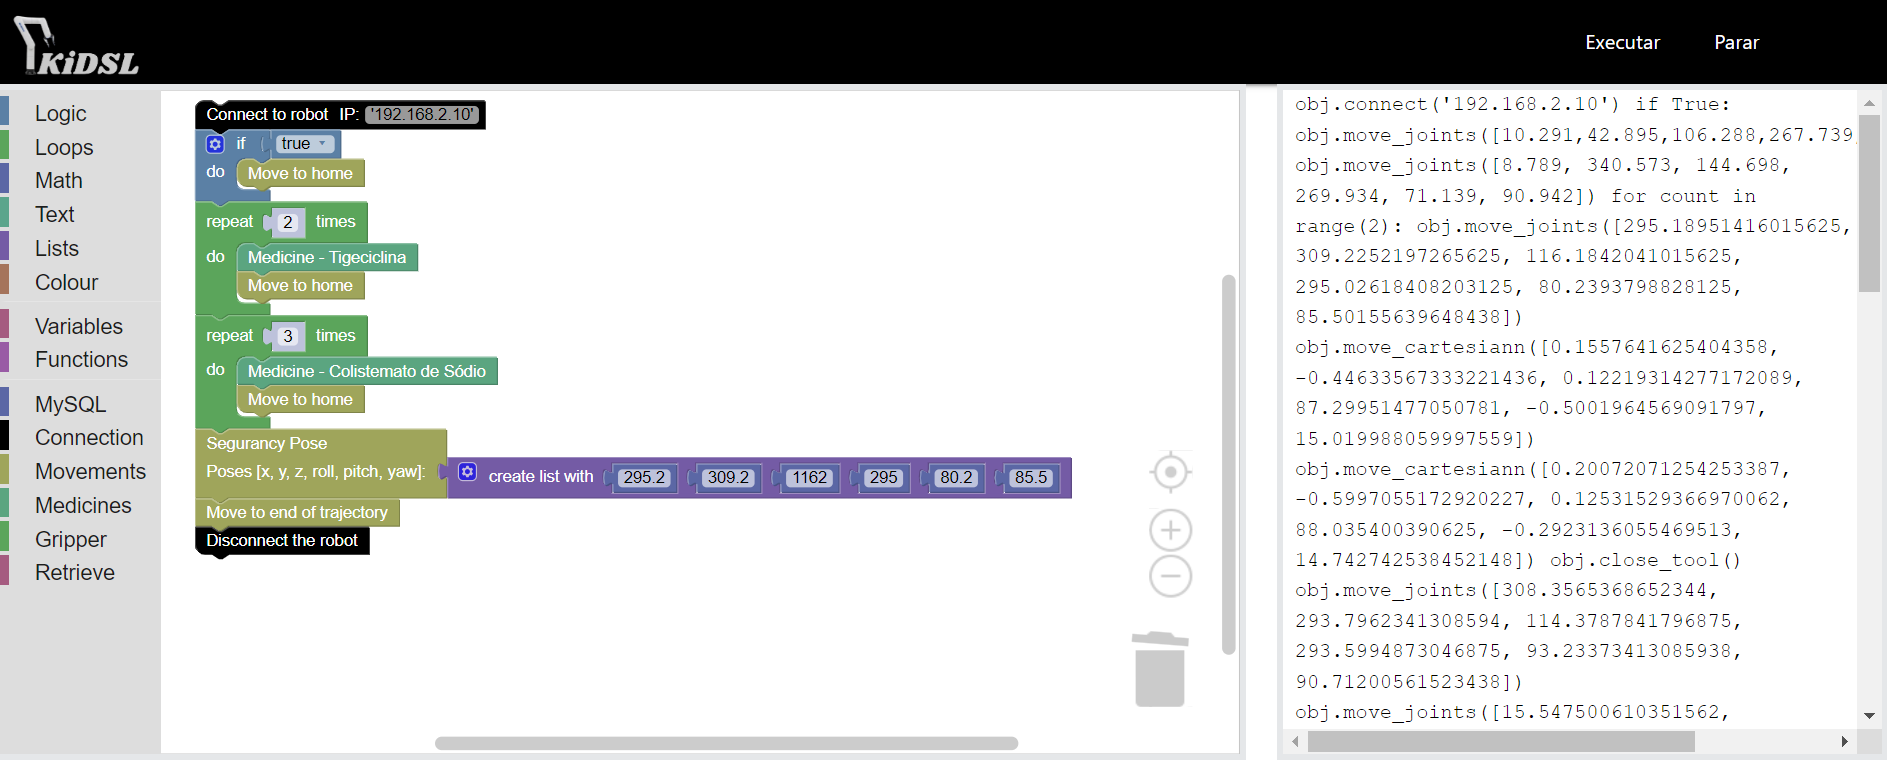
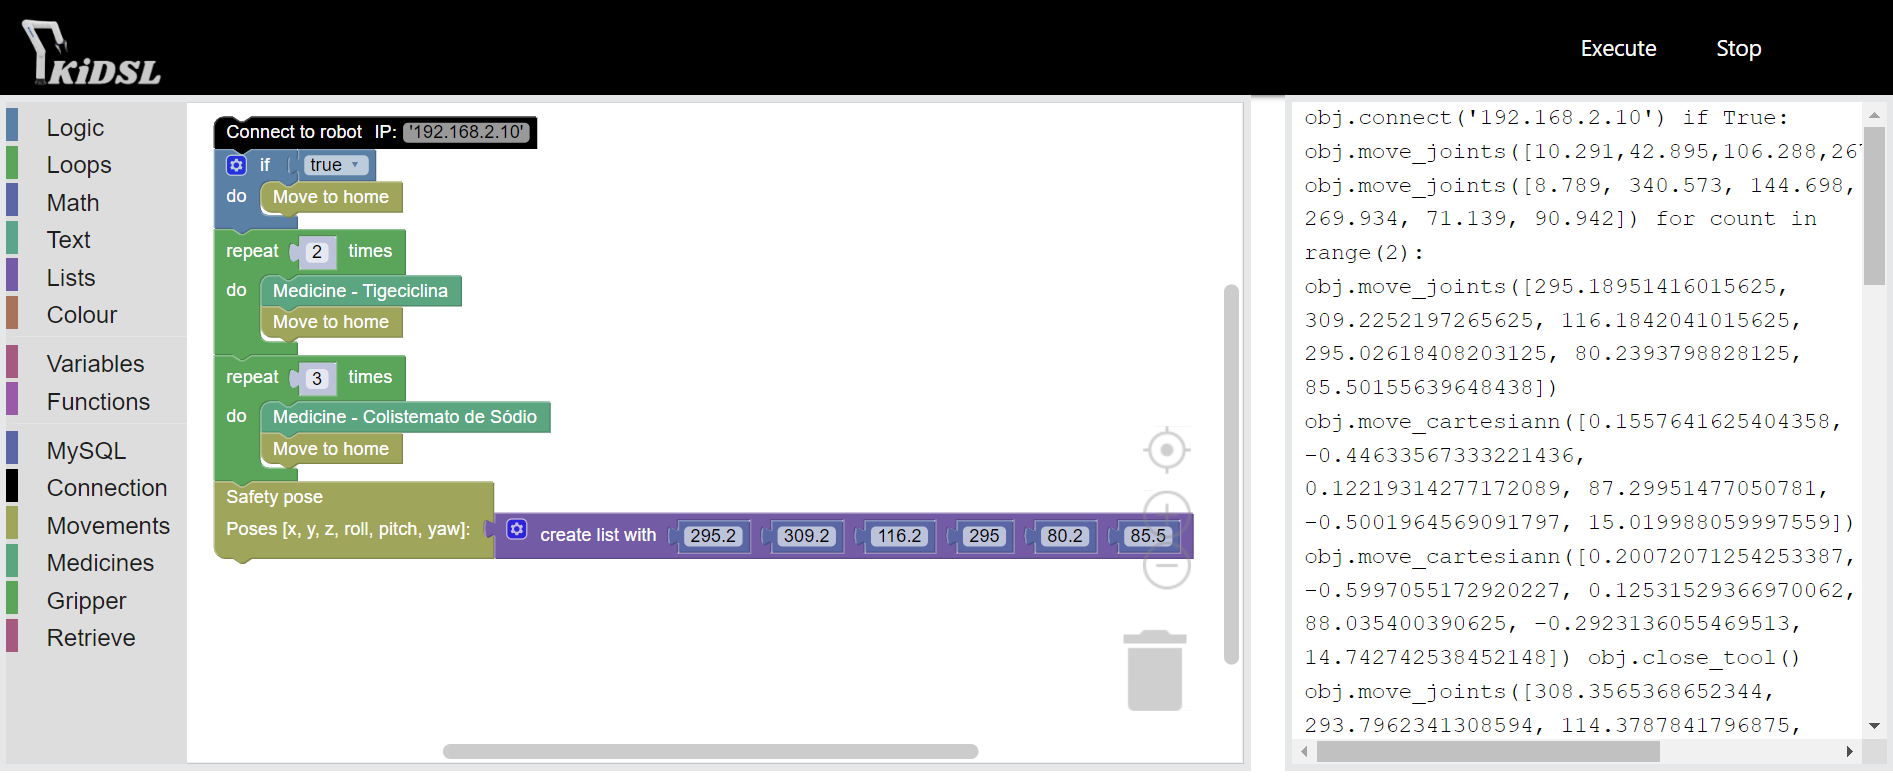
Ajustes no banco de dados e blocos frontend

Changed region(s): [[0.0, 0.0, 1.0, 1.0], [0.584, 0.8107, 0.6455, 0.9308], [0.9836, 0.3603, 1.0, 0.3903]]

diff --git a/static/src/blocos_up.js b/static/src/blocos_up.js
@@ -1,7 +1,7 @@
 Blockly.Blocks['execute_python_script'] = {
   init: function() {
     this.appendDummyInput()
-        .appendField("Execute Python script");
+        .appendField("Execute python script");
     this.appendValueInput("PATH FILE")
         .setCheck("String")        
     this.setPreviousStatement(true, null);
@@ -54,7 +54,7 @@ Blockly.Blocks.moveJoints = {
     this.setPreviousStatement(true, null);
     this.setNextStatement(true, null);
     this.appendDummyInput()
-        .appendField("Move Joints");
+        .appendField("Move joints");
     this.appendValueInput("joints_list")
         .setCheck("Array")
         .appendField("Joints:");      
@@ -70,7 +70,7 @@ Blockly.Blocks.moveCartesian = {
       this.setNextStatement(true, null);
       this.setColour(230);
       this.appendDummyInput()
-          .appendField("Move to Cartesian");
+          .appendField("Move to cartesian");
       this.appendValueInput("pose_list")
           .setCheck("Array")
           .appendField("Poses [x, y, z, roll, pitch, yaw]:");
@@ -97,7 +97,7 @@ Blockly.Blocks.open_tool = {
 Blockly.Blocks.close_tool = {
   init: function() {
     this.appendDummyInput()
-        .appendField("close tool");
+        .appendField("Close tool");
     this.setPreviousStatement(true, null);
     this.setNextStatement(true, null);
     this.setColour(120);
@@ -111,7 +111,7 @@ Blockly.Blocks['retrieve_tickets'] = {
   init: function() {
     this.appendValueInput("retrieve_tickets")
         .setCheck(null)
-        .appendField("retrieve tickets ID");
+        .appendField("Retrieve tickets ID");
     this.setPreviousStatement(true, null);
     this.setNextStatement(true, null);
     this.setColour(330);
@@ -124,7 +124,7 @@ Blockly.Blocks['retrieve_items'] = {
   init: function() {
     this.appendValueInput("NAME")
         .setCheck(null)
-        .appendField("retrieve items");
+        .appendField("Retrieve items");
     this.setPreviousStatement(true, null);
     this.setNextStatement(true, null);
     this.setColour(330);
@@ -181,7 +181,7 @@ Blockly.Blocks.mysqlConnection = {
 Blockly.Blocks.gerarTickets = {
   init: function() {
     this.appendDummyInput()
-        .appendField("Generate Tickets");
+        .appendField("Generate tickets");
     this.setPreviousStatement(true, null);
     this.setNextStatement(true, null);
     this.setColour(230);
@@ -226,20 +226,21 @@ Blockly.Blocks.colistemato = {
   }
 };
 
-Blockly.Blocks.segurancy = {
+Blockly.Blocks.safety = {
   init: function () {
     this.setPreviousStatement(true, null);
     this.setNextStatement(true, null);
     this.setColour(65);
     this.appendDummyInput()
-        .appendField("Segurancy Pose");
-    this.appendValueInput("pose_list")
+        .appendField("Safety pose");
+        this.appendValueInput("joints_list")
         .setCheck("Array")
-        .appendField("Poses [x, y, z, roll, pitch, yaw]:");
-    this.setTooltip("Configure the robot movement with Cartesian coordinates.");
+        .appendField("Joints:");      
+    this.setTooltip("Configure robot movement with joint values.");
     this.setHelpUrl("");
 }
 };
+
 
 Blockly.Blocks['move_to_end'] = {
   init: function() {
@@ -369,11 +370,12 @@ Blockly.Python['colistemato de sodio'] = function(block) {
   return code;
 };
 
-Blockly.Python['segurancy'] = function(block) {
-  var value_pose_list = Blockly.Python.valueToCode(block, 'pose_list', Blockly.Python.ORDER_ATOMIC);
-  var code = 'obj.move_cartesiann(' + value_pose_list + ')\n';
+Blockly.Python['safety'] = function(block) {
+  var value_joints_list = Blockly.Python.valueToCode(block, 'joints_list', Blockly.Python.ORDER_ATOMIC);
+  var code = 'obj.move_joints(' + value_joints_list + ')\n';
   return code;
 };
+
 
 Blockly.Python['move_to_end'] = function(block) {
   var code = 'obj.move_joints([10.291,42.895,106.288,267.739,332.335,92.869])\n';

diff --git a/static/src/tudo.js b/static/src/tudo.js
@@ -1,7 +1,7 @@
 Blockly.Blocks['execute_python_script'] = {
   init: function() {
     this.appendDummyInput()
-        .appendField("Execute Python script");
+        .appendField("Execute python script");
     this.appendValueInput("PATH FILE")
         .setCheck("String")      
     this.setPreviousStatement(true, null);
@@ -83,7 +83,7 @@ Blockly.Python['move_to_home'] = function(block) {
       this.setNextStatement(true, null);
       this.setColour(65);
       this.appendDummyInput()
-          .appendField("Move Joints");
+          .appendField("Move joints");
       this.appendValueInput("joints_list")
           .setCheck("Array")
           .appendField("Joints:");      
@@ -105,7 +105,7 @@ Blockly.Python['moveJoints'] = function(block) {
         this.setNextStatement(true, null);
         this.setColour(65);
         this.appendDummyInput()
-            .appendField("Move to Cartesian");
+            .appendField("Move to cartesian");
         this.appendValueInput("pose_list")
             .setCheck("Array")
             .appendField("Poses [x, y, z, roll, pitch, yaw]:");
@@ -147,7 +147,7 @@ Blockly.Python['open_tool'] = function(block) {
 Blockly.Blocks.close_tool = {
   init: function() {
     this.appendDummyInput()
-        .appendField("close tool");
+        .appendField("Close tool");
     this.setPreviousStatement(true, null);
     this.setNextStatement(true, null);
     this.setColour(120);
@@ -169,7 +169,7 @@ Blockly.Python['close_tool'] = function(block) {
     init: function() {
       this.appendValueInput("retrieve_tickets")
           .setCheck(null)
-          .appendField("retrieve tickets ID");
+          .appendField("Retrieve tickets ID");
       this.setPreviousStatement(true, null);
       this.setNextStatement(true, null);
       this.setColour(230);
@@ -191,7 +191,7 @@ Blockly.Python['close_tool'] = function(block) {
     init: function() {
       this.appendValueInput("NAME")
           .setCheck(null)
-          .appendField("retrieve items");
+          .appendField("Retrieve items");
       this.setPreviousStatement(true, null);
       this.setNextStatement(true, null);
       this.setColour(330);
@@ -276,7 +276,7 @@ Blockly.Python['mysqlConnection'] = function(block) {
   Blockly.Blocks.gerarTickets = {
     init: function() {
       this.appendDummyInput()
-          .appendField("Generate Tickets");
+          .appendField("Generate tickets");
       this.setPreviousStatement(true, null);
       this.setNextStatement(true, null);
       this.setColour(230);
@@ -349,26 +349,27 @@ Blockly.Python['colistemato'] = function(block) {
 };
 
 
-Blockly.Blocks.segurancy = {
+Blockly.Blocks.safety = {
   init: function () {
     this.setPreviousStatement(true, null);
     this.setNextStatement(true, null);
     this.setColour(65);
     this.appendDummyInput()
-        .appendField("Segurancy Pose");
-    this.appendValueInput("pose_list")
+        .appendField("Safety pose");
+        this.appendValueInput("joints_list")
         .setCheck("Array")
-        .appendField("Poses [x, y, z, roll, pitch, yaw]:");
-    this.setTooltip("Configure the robot movement with Cartesian coordinates.");
+        .appendField("Joints:");      
+    this.setTooltip("Configure robot movement with joint values.");
     this.setHelpUrl("");
 }
 };
 
-Blockly.Python['segurancy'] = function(block) {
-  var value_pose_list = Blockly.Python.valueToCode(block, 'pose_list', Blockly.Python.ORDER_ATOMIC);
-  var code = 'obj.move_cartesiann(' + value_pose_list + ')\n';
+Blockly.Python['safety'] = function(block) {
+  var value_joints_list = Blockly.Python.valueToCode(block, 'joints_list', Blockly.Python.ORDER_ATOMIC);
+  var code = 'obj.move_joints(' + value_joints_list + ')\n';
   return code;
 };
+
 
 
 Blockly.Blocks['move_to_end'] = {

diff --git a/index.html b/index.html
@@ -58,8 +58,8 @@
               <!-- <img alt="logo" src="static/img/KiDLS__1_-removebg-preview.png" style="width: 100px; height: auto; margin-top: 10px;"> -->
           </a>
           <ul class="right hide-on-med-and-down">      
-            <li class="nav-icons"><a href="#" onclick="runCode()">Executar</a></li>                     
-            <li class="nav-icons"><a href="#" onclick="pararExecucao()">Parar</a></li>
+            <li class="nav-icons"><a href="#" onclick="runCode()">Execute</a></li>                     
+            <li class="nav-icons"><a href="#" onclick="pararExecucao()">Stop</a></li>
 
             <!-- <li class="nav-icons"><a href="#" onclick="runCode()"><i class="material-icons">play_circle_outline</i></a></li>            -->
             <!-- <li class="nav-icons"><a href="#"><i class="material-icons">stop </i></a></li>           -->
@@ -574,45 +574,45 @@
               </value>
             </block>
           </value>
-        </block>    
-        
-        <block type="segurancy">
-          <value name="pose_list">
+        </block>           
+       
+        <block type="safety">
+          <value name="joints_list">
             <block type="lists_create_with" inline="true">
               <mutation items="6"></mutation>
               <value name="ADD0">
                 <block type="math_number">
-                  <field name="NUM">0</field>
+                  <field name="NUM">295.18951416015625</field>
                 </block>
               </value>
               <value name="ADD1">
                 <block type="math_number">
-                  <field name="NUM">0</field>
+                  <field name="NUM">309.2252197265625</field>
                 </block>
               </value>
               <value name="ADD2">
                 <block type="math_number">
-                  <field name="NUM">0</field>
+                  <field name="NUM">116.1842041015625</field>
                 </block>
               </value>
               <value name="ADD3">
                 <block type="math_number">
-                  <field name="NUM">0</field>
+                  <field name="NUM">295.02618408203125</field>
                 </block>
               </value>
               <value name="ADD4">
                 <block type="math_number">
-                  <field name="NUM">0</field>
+                  <field name="NUM">80.2393798828125</field>
                 </block>
               </value>
               <value name="ADD5">
                 <block type="math_number">
-                  <field name="NUM">0</field>
+                  <field name="NUM">85.50155639648438</field>
                 </block>
               </value>
             </block>
           </value>
-        </block>  
+        </block>
 
       </category>
       <category name="Medicines" colour="150">
